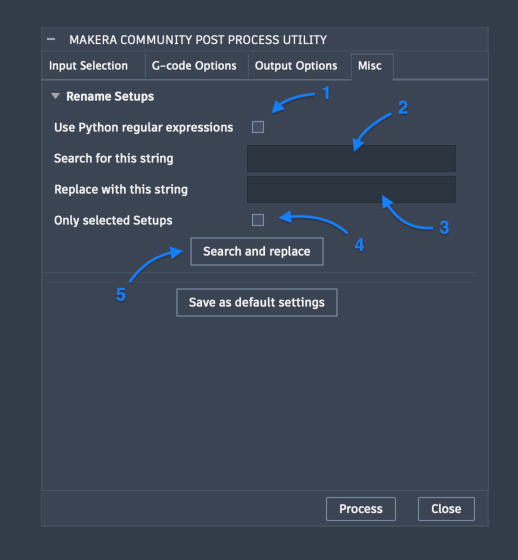
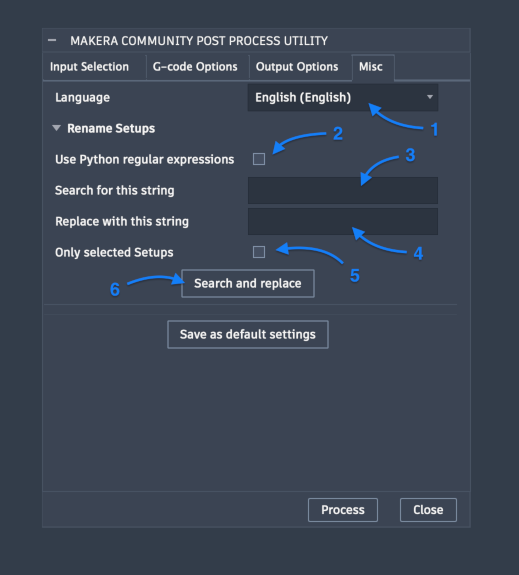
Updated README to reflect latest changes.

diff --git a/README.md b/README.md
@@ -10,6 +10,7 @@ This repository contains the Autodesk Fusion add-in by the Makera Community. It 
 - Rotation of the A-axis if one is installed for support of indexed milling.
 - Allows tool changes in a single setup
 - Adds rapid moves when no cut is being made
+- Grouping of operations as a single file, per setup, per setup and tool or one output file per operation
 - ... and more!
 
 ## Acknowledgments
@@ -132,7 +133,7 @@ The next setting is `Combine operations using same tool` (7) and it will make su
 
 If you don't want the output to be in folders it is possible to select `Flat file structure` (8) which will result in an output in the `Output folder` without any sub folders. Instead, each file name will be prepended with the folder structure concatenated. All the other settings still applies, so numbering will happen and all that.
 
-If you're writing the output to a file already containing files and the plugin tries to write to an existing file it will stop and display an error saying which file that already exists. To force the output to overwrite any existing files, select `Overwrite existing files` (9). It is useful if you rerun the plugin after doing changes but it also prevents accidental overwrites of files you didn't plan overwriting. This setting is <u>not</u> stored, as it is a safety feature. Another safety feature is that `Clear output folder` (10) isn't saved either. It will unceremoniously remove all files and folders in the output folder (but not the output folder itself). So, handle with care. It is however useful if you have a folder where you dump out all your NC programs and wants to clear out any previous attempts. 
+If you're writing the output to a file already containing files and the plugin tries to write to an existing file it will stop and display an error saying which file that already exists. To force the output to overwrite any existing files, select `Overwrite existing files` (9). It is useful if you rerun the plugin after doing changes but it also prevents accidental overwrites of files you didn't plan overwriting. If you want to you can `Clear output folder` (10) to remove everything in the output folder and when the g-code is proccessed all files and folders in the output folder will be removed (but not the output folder itself). So, handle with care. It is however useful if you have a folder where you dump out all your NC programs and wants to clear out any previous attempts. 
 
 #### Misc
 
@@ -140,7 +141,9 @@ There is always a `Misc`tab, isn't there? Well, here all the things that didn't 
 
 <img src="resources/readme/usage/misc-tab.png">
 
-You can choose to `Use Python regular expressions` (1) if you want to do some advanced search and replace. Otherwise you just type in whatever you want to replace in `Search for this string`(2) and in `Replace with this string` (3) you enter what you want to have there instead. Rather simple, really. As an extra boon you can also limit the replacement to `Only selected Setups` so that you don't have to do it to all. Once you're happy with your replacement parameters, just press `Search and replace` (5) and Presto! your wish has been granted. An extra little feature is that if you leave the `Search for this string` empty it will actually prepend the names with the string entered in `Replace with this string`. Magic. 
+There is a possibility to change the language of the dialog if you want to do so. it can be done in the `Language` drop down (1).
+
+You can choose to `Use Python regular expressions` (2) if you want to do some advanced search and replace. Otherwise you just type in whatever you want to replace in `Search for this string`(3) and in `Replace with this string` (4) you enter what you want to have there instead. Rather simple, really. As an extra boon you can also limit the replacement to `Only selected Setups` (5) so that you don't have to do it to all. Once you're happy with your replacement parameters, just press `Search and replace` (6) and Presto! your wish has been granted. An extra little feature is that if you leave the `Search for this string` empty it will actually prepend the names with the string entered in `Replace with this string`. Magic. 
 
 ## Development
 - Create a development branch:
